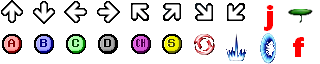
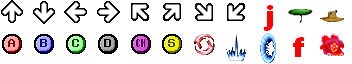
Prepared field for more Suwako changes

diff --git a/modules/AdvancedPracticeMode/Inputs.cpp b/modules/AdvancedPracticeMode/Inputs.cpp
@@ -21,30 +21,74 @@ namespace Practice
 #define MAX_BOX_ALPHA 0.4
 #define SPRITE_SIZE 24
 #define MAX_LIST_SIZE 0x100
-#define FAKE_ACTION_ORRERIES_REACTIVATE static_cast<SokuLib::Action>(SokuLib::ACTION_AIR_ORRERIES_C + 1)
-#define FAKE_ACTION_5AAA6A static_cast<SokuLib::Action>(SokuLib::ACTION_j5AA + 1)
-//(BOX_HEIGHT / (SPRITE_SIZE + (SPRITE_SIZE / 3)))
 
-#define A_SPRITE_POS         Vector2<int>{0,   28}
-#define B_SPRITE_POS         Vector2<int>{32,  28}
-#define C_SPRITE_POS         Vector2<int>{64,  28}
-#define D_SPRITE_POS         Vector2<int>{96,  28}
-#define CH_SPRITE_POS        Vector2<int>{128, 28}
-#define SC_SPRITE_POS        Vector2<int>{160, 28}
-#define UP_SPRITE_POS        Vector2<int>{0,   -4}
-#define DOWN_SPRITE_POS      Vector2<int>{32,  -4}
-#define LEFT_SPRITE_POS      Vector2<int>{64,  -4}
-#define RIGHT_SPRITE_POS     Vector2<int>{96,  -4}
-#define LEFTUP_SPRITE_POS    Vector2<int>{128, -4}
-#define RIGHTUP_SPRITE_POS   Vector2<int>{160, -4}
-#define RIGHTDOWN_SPRITE_POS Vector2<int>{192, -4}
-#define LEFTDOWN_SPRITE_POS  Vector2<int>{224, -4}
-#define BE_SPRITE_POS        Vector2<int>{192, 28}
-#define HJ_SPRITE_POS        Vector2<int>{224, 32}
-#define AIR_SPRITE_POS       Vector2<int>{256, 0}
-#define DASH_SPRITE_POS      Vector2<int>{256, 32}
-#define LILIPAD_SPRITE_POS   Vector2<int>{288, 0}
-#define FAR_SPRITE_POS       Vector2<int>{288, 32}
+
+#define FAKE_ACTION_ORRERIES_REACTIVATE static_cast<SokuLib::Action>(SokuLib::ACTION_AIR_ORRERIES_C + 1)
+#define FAKE_ACTION_5AAA6A static_cast<SokuLib::Action>(1000)
+#define FAKE_ACTION_FLY1 static_cast<SokuLib::Action>(1001)
+#define FAKE_ACTION_FLY2 static_cast<SokuLib::Action>(1002)
+#define FAKE_ACTION_FLY3 static_cast<SokuLib::Action>(1003)
+#define FAKE_ACTION_FLY4 static_cast<SokuLib::Action>(1004)
+#define FAKE_ACTION_FLY6 static_cast<SokuLib::Action>(1005)
+#define FAKE_ACTION_FLY7 static_cast<SokuLib::Action>(1006)
+#define FAKE_ACTION_FLY8 static_cast<SokuLib::Action>(1007)
+#define FAKE_ACTION_FLY9 static_cast<SokuLib::Action>(1008)
+
+//Suwako stuff
+#define FAKE_ACTION_j1D static_cast<SokuLib::Action>(1100)
+#define FAKE_ACTION_j3D static_cast<SokuLib::Action>(1101)
+#define FAKE_ACTION_LILIPAD_NEUTRAL_HIGHJUMP static_cast<SokuLib::Action>(1102)
+#define FAKE_ACTION_LILIPAD_FORWARD_HIGHJUMP static_cast<SokuLib::Action>(1103)
+#define FAKE_ACTION_LILIPAD_BACKWARD_HIGHJUMP static_cast<SokuLib::Action>(1104)
+#define FAKE_ACTION_LILIPAD_A static_cast<SokuLib::Action>(1105)
+#define FAKE_ACTION_LILIPAD_3A static_cast<SokuLib::Action>(1106)
+#define FAKE_ACTION_LILIPAD_2B static_cast<SokuLib::Action>(1107)
+#define FAKE_ACTION_LILIPAD_6B static_cast<SokuLib::Action>(1108)
+#define FAKE_ACTION_LILIPAD_2C static_cast<SokuLib::Action>(1109)
+#define FAKE_ACTION_LILIPAD_SPAWN static_cast<SokuLib::Action>(1110)
+#define FAKE_ACTION_LILIPAD_DESPAWN static_cast<SokuLib::Action>(1111)
+#define FAKE_ACTION_LILIPAD_DEFAULT_22B static_cast<SokuLib::Action>(1112)
+#define FAKE_ACTION_LILIPAD_DEFAULT_22C static_cast<SokuLib::Action>(1113)
+#define FAKE_ACTION_UNDERGROUND_ALT1_22B static_cast<SokuLib::Action>(1114)
+#define FAKE_ACTION_UNDERGROUND_ALT1_22C static_cast<SokuLib::Action>(1115)
+#define FAKE_ACTION_LILIPAD_DEFAULT_623b static_cast<SokuLib::Action>(1116)
+#define FAKE_ACTION_UNDERGROUND_DEFAULT_623b static_cast<SokuLib::Action>(1117)
+#define FAKE_ACTION_UNDERGROUND_DEFAULT_623c static_cast<SokuLib::Action>(1118)
+#define FAKE_ACTION_LILIPAD_ALT1_623b static_cast<SokuLib::Action>(1119)
+#define FAKE_ACTION_LILIPAD_ALT1_623c static_cast<SokuLib::Action>(1120)
+#define FAKE_ACTION_LILIPAD_DEFAULT_236b static_cast<SokuLib::Action>(1121)
+#define FAKE_ACTION_LILIPAD_DEFAULT_236c static_cast<SokuLib::Action>(1122)
+#define FAKE_ACTION_LILIPAD_ALT1_236b static_cast<SokuLib::Action>(1123)
+#define FAKE_ACTION_LILIPAD_ALT1_236c static_cast<SokuLib::Action>(1124)
+#define FAKE_ACTION_LILIPAD_ALT2_236b static_cast<SokuLib::Action>(1125)
+#define FAKE_ACTION_LILIPAD_ALT2_236c static_cast<SokuLib::Action>(1126)
+#define FAKE_ACTION_UNDERGROUND_DEFAULT_214b static_cast<SokuLib::Action>(1127)
+#define FAKE_ACTION_UNDERGROUND_DEFAULT_214c static_cast<SokuLib::Action>(1128)
+#define FAKE_ACTION_LILIPAD_ALT2_214b static_cast<SokuLib::Action>(1129)
+#define FAKE_ACTION_LILIPAD_ALT2_214c static_cast<SokuLib::Action>(1130)
+
+#define A_SPRITE_POS           Vector2<int>{0,   28}
+#define B_SPRITE_POS           Vector2<int>{32,  28}
+#define C_SPRITE_POS           Vector2<int>{64,  28}
+#define D_SPRITE_POS           Vector2<int>{96,  28}
+#define CH_SPRITE_POS          Vector2<int>{128, 28}
+#define SC_SPRITE_POS          Vector2<int>{160, 28}
+#define UP_SPRITE_POS          Vector2<int>{0,   -4}
+#define DOWN_SPRITE_POS        Vector2<int>{32,  -4}
+#define LEFT_SPRITE_POS        Vector2<int>{64,  -4}
+#define RIGHT_SPRITE_POS       Vector2<int>{96,  -4}
+#define LEFTUP_SPRITE_POS      Vector2<int>{128, -4}
+#define RIGHTUP_SPRITE_POS     Vector2<int>{160, -4}
+#define RIGHTDOWN_SPRITE_POS   Vector2<int>{192, -4}
+#define LEFTDOWN_SPRITE_POS    Vector2<int>{224, -4}
+#define BE_SPRITE_POS          Vector2<int>{192, 28}
+#define HJ_SPRITE_POS          Vector2<int>{224, 32}
+#define AIR_SPRITE_POS         Vector2<int>{256, 0}
+#define DASH_SPRITE_POS        Vector2<int>{256, 32}
+#define LILIPAD_SPRITE_POS     Vector2<int>{288, 0}
+#define FAR_SPRITE_POS         Vector2<int>{288, 32}
+#define UNDERGROUND_SPRITE_POS Vector2<int>{320, 0}
+#define REIMU_SPRITE_POS       Vector2<int>{320, 32}
 
 	struct MoveState {
 		SokuLib::Action action;
@@ -178,6 +222,12 @@ namespace Practice
 					break;
 				case 'j':
 					rects.push_back(AIR_SPRITE_POS);
+					break;
+				case 'l':
+					rects.push_back(LILIPAD_SPRITE_POS);
+					break;
+				case 'u':
+					rects.push_back(UNDERGROUND_SPRITE_POS);
 					break;
 				default:
 					abort();
@@ -761,32 +811,32 @@ namespace Practice
 		} },
 		{ SokuLib::ACTION_DEFAULT_SKILL5_B, {
 			inputSheet,
-			{"i", "i", "i", "i", "421b", "i", "i", "i", "i", "i", "i", "i", "i", "i", "i", "i", "i", "i", "i", "i"},
+			{"", "", "", "", "421b", "", "", "", "", "", "", "", "", "", "", "", "", "", "", ""},
 			{24, 32}
 		} },
 		{ SokuLib::ACTION_DEFAULT_SKILL5_C, {
 			inputSheet,
-			{"i", "i", "i", "i", "421c", "i", "i", "i", "i", "i", "i", "i", "i", "i", "i", "i", "i", "i", "i", "i"},
+			{"", "", "", "", "421c", "", "", "", "", "", "", "", "", "", "", "", "", "", "", ""},
 			{24, 32}
 		} },
 		{ SokuLib::ACTION_ALT1_SKILL5_B, {
 			inputSheet,
-			{"i", "i", "i", "i", "421b", "i", "i", "i", "i", "i", "i", "i", "i", "i", "i", "i", "i", "i", "i", "i"},
+			{"", "", "", "", "421b", "", "", "", "", "", "", "", "", "", "", "", "", "", "", ""},
 			{24, 32}
 		} },
 		{ SokuLib::ACTION_ALT1_SKILL5_C, {
 			inputSheet,
-			{"i", "i", "i", "i", "421c", "i", "i", "i", "i", "i", "i", "i", "i", "i", "i", "i", "i", "i", "i", "i"},
+			{"", "", "", "", "421c", "", "", "", "", "", "", "", "", "", "", "", "", "", "", ""},
 			{24, 32}
 		} },
 		{ SokuLib::ACTION_ALT2_SKILL5_B, {
 			inputSheet,
-			{"i", "i", "i", "i", "421b", "i", "i", "i", "i", "i", "i", "i", "i", "i", "i", "i", "i", "i", "i", "i"},
+			{"", "", "", "", "421b", "", "", "", "", "", "", "", "", "", "", "", "", "", "", ""},
 			{24, 32}
 		} },
 		{ SokuLib::ACTION_ALT2_SKILL5_C, {
 			inputSheet,
-			{"i", "i", "i", "i", "421c", "i", "i", "i", "i", "i", "i", "i", "i", "i", "i", "i", "i", "i", "i", "i"},
+			{"", "", "", "", "421c", "", "", "", "", "", "", "", "", "", "", "", "", "", "", ""},
 			{24, 32}
 		} },
 		{ SokuLib::ACTION_DEFAULT_SKILL1_AIR_B, {
@@ -911,32 +961,32 @@ namespace Practice
 		} },
 		{ SokuLib::ACTION_DEFAULT_SKILL5_AIR_B, {
 			inputSheet,
-			{"i", "i", "i", "i", "j421b", "i", "i", "i", "i", "i", "i", "i", "i", "i", "i", "i", "i", "i", "i", "i"},
+			{"", "", "", "", "j421b", "", "", "", "", "", "", "", "", "", "", "", "", "", "", ""},
 			{24, 32}
 		} },
 		{ SokuLib::ACTION_DEFAULT_SKILL5_AIR_C, {
 			inputSheet,
-			{"i", "i", "i", "i", "j421c", "i", "i", "i", "i", "i", "i", "i", "i", "i", "i", "i", "i", "i", "i", "i"},
+			{"", "", "", "", "j421c", "", "", "", "", "", "", "", "", "", "", "", "", "", "", ""},
 			{24, 32}
 		} },
 		{ SokuLib::ACTION_ALT1_SKILL5_AIR_B, {
 			inputSheet,
-			{"i", "i", "i", "i", "j421b", "i", "i", "i", "i", "i", "i", "i", "i", "i", "i", "i", "i", "i", "i", "i"},
+			{"", "", "", "", "j421b", "", "", "", "", "", "", "", "", "", "", "", "", "", "", ""},
 			{24, 32}
 		} },
 		{ SokuLib::ACTION_ALT1_SKILL5_AIR_C, {
 			inputSheet,
-			{"i", "i", "i", "i", "j421c", "i", "i", "i", "i", "i", "i", "i", "i", "i", "i", "i", "i", "i", "i", "i"},
+			{"", "", "", "", "j421c", "", "", "", "", "", "", "", "", "", "", "", "", "", "", ""},
 			{24, 32}
 		} },
 		{ SokuLib::ACTION_ALT2_SKILL5_AIR_B, {
 			inputSheet,
-			{"i", "i", "i", "i", "j421b", "i", "i", "i", "i", "i", "i", "i", "i", "i", "i", "i", "i", "i", "i", "i"},
+			{"", "", "", "", "j421b", "", "", "", "", "", "", "", "", "", "", "", "", "", "", ""},
 			{24, 32}
 		} },
 		{ SokuLib::ACTION_ALT2_SKILL5_AIR_C, {
 			inputSheet,
-			{"i", "i", "i", "i", "j421c", "i", "i", "i", "i", "i", "i", "i", "i", "i", "i", "i", "i", "i", "i", "i"},
+			{"", "", "", "", "j421c", "", "", "", "", "", "", "", "", "", "", "", "", "", "", ""},
 			{24, 32}
 		} },
 		{ SokuLib::ACTION_USING_SC_ID_200, { inputSheet, SC_SPRITE_POS, {24, 32} } },
@@ -1127,6 +1177,7 @@ namespace Practice
 		auto *front = &list.front();
 
 		if (moveSprites.find(realAction) != moveSprites.end()) {
+			printf("%i: action %i|block %i|frame %i|subanim %i|subframe %i\n", realAction, character.objectBase.action, character.objectBase.actionBlockId, character.objectBase.frameCount, character.objectBase.animationCounter, character.objectBase.animationSubFrame);
 			if ((realAction != last.action || isCancelableByItself(realAction)) && isStartOfMove(realAction, character, characterId)) {
 				if (front->action) {
 					list.push_front(list.front());
@@ -1140,8 +1191,11 @@ namespace Practice
 			last.animation = character.objectBase.animationCounter;
 			last.subFrames = character.objectBase.animationSubFrame;
 			last.frames = character.objectBase.frameCount;
-		} else
+		} else {
 			last.action = SokuLib::ACTION_IDLE;
+			if (realAction)
+				printf("Unknown action %i\n", realAction);
+		}
 		front->duration++;
 	}
 
